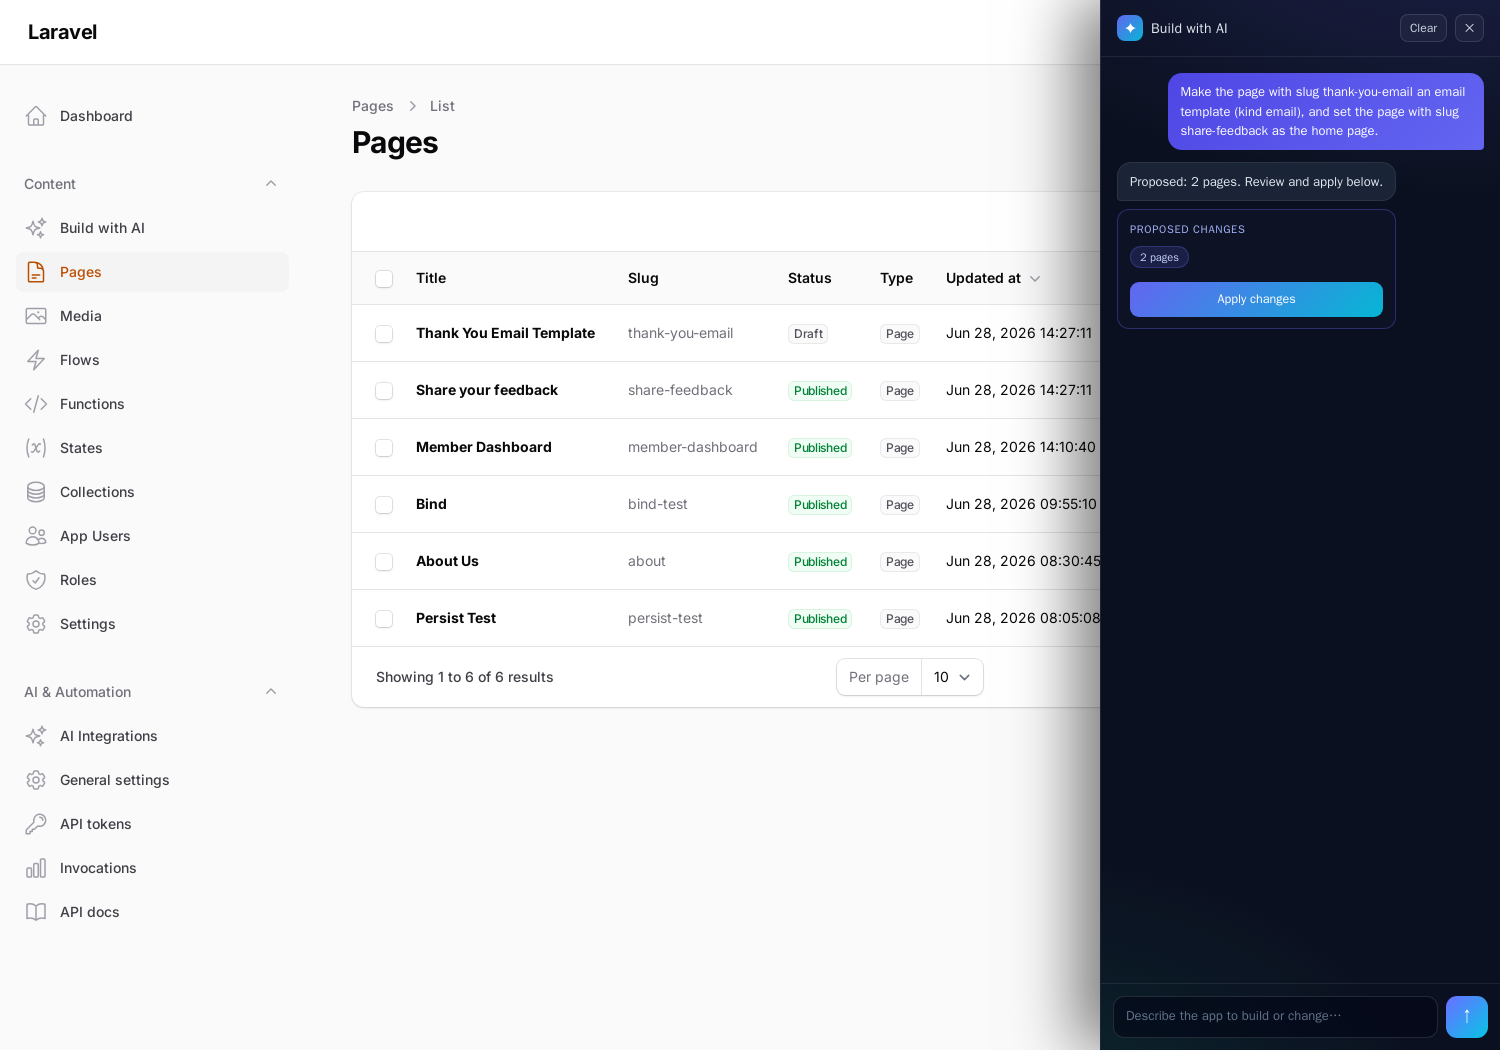
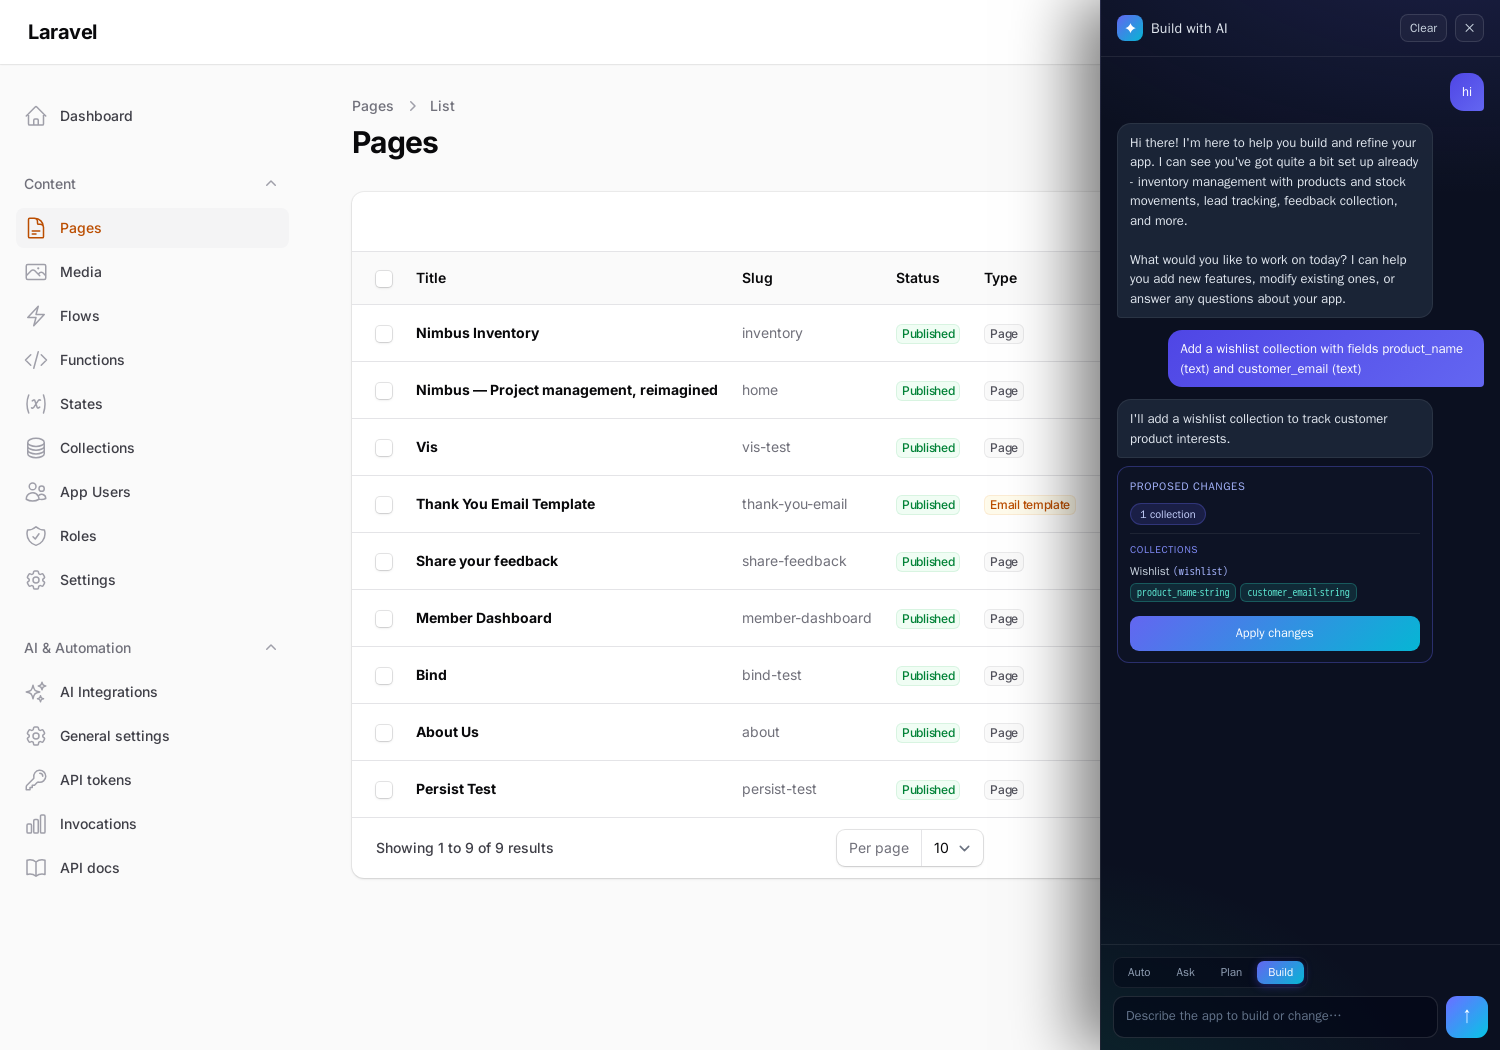
docs: refresh README + docs for the floating chat, modes, and demo apps
- README 'See it' now shows the two demo apps (marketing site + inventory
  dashboard), the conversational chat, and an automation flow; quickstart adds
  `ai-page-builder:install-demo`; the AI section describes Ask/Plan/Build/Auto
  modes + the detailed, viewable plan.
- docs/ai.md: replaced the removed 'Build with AI page' section with the floating
  chat as the single AI surface (modes, fenced-plan rendering, endpoints, SPA
  persistence) + a 'try the demo apps' section.
- Refreshed screenshots (marketing-site, inventory, ai-chat, flow).

diff --git a/docs/ai.md b/docs/ai.md
@@ -13,7 +13,7 @@ composer require andrecorugda/ai-openrouter-gateway
 # .env: OPENROUTER_INTEGRATION_KEY=sk-or-...
 ```
 
-The package talks to it through the [`AiInvoker`](extending.md#the-aiinvoker-contract) abstraction (`GatewayAiInvoker` by default), so the rest of the package stays gateway-optional and the AI services stay unit-testable. `AppBuilderService::available()` is false without it, and the *Build with AI* page / chat degrade gracefully ("you can still build manually").
+The package talks to it through the [`AiInvoker`](extending.md#the-aiinvoker-contract) abstraction (`GatewayAiInvoker` by default), so the rest of the package stays gateway-optional and the AI services stay unit-testable. `AppBuilderService::available()` is false without it, and the chat degrades gracefully ("you can still build manually").
 
 The `ai.driver` config is `auto` by default: use the gateway when installed, else the direct OpenRouter driver, else a null driver (manual editing still works). Force it with `gateway` or `openrouter`.
 
@@ -36,22 +36,31 @@ Field `options` carry `required`, `unique`, `default`, `length`, `choices` (for 
 
 `src/Ai/BuildPlanValidator.php` runs **before** the applier touches the DB, returning a flat list of human-readable errors (empty = valid). It blocks structural breakage — invalid slugs (`^[a-z][a-z0-9_-]*$`), duplicate keys, unknown field types (checked against `FieldType::cases()`), unknown flow trigger types and **unregistered node types** (resolved from the live `NodeRegistry`), a `home_page` that points at an email template — while treating advisory issues (an unknown `data-pb-block` key, a `home_page` slug not created in the same plan) as warnings.
 
-## Build with AI
+## The floating chat (the single AI surface)
 
-The **Build with AI** admin page (`src/Filament/Pages/BuildWithAi.php`) is the describe → review → apply surface:
+The AI lives in a dockable companion injected on every admin page (the ✦ orb; `resources/views/filament/ai-chat.blade.php` via a Filament render hook), backed by `AiChatController`. It is a real conversation, not a one-shot form.
 
-1. **Describe** — a `brief` (what you want) and optional `business` (brand/guidelines).
-2. **Generate plan** — calls `AppBuilderService::generate($brief, $business)`, which sends the seeded `app_builder` system prompt + the live app context + your brief through the gateway, then extracts and validates the plan. The reviewable plan, its validation errors and the raw model reply are shown.
-3. **Apply plan** — visible once a plan exists, **disabled while there are validation errors**, and requires confirmation. Calls `BuildPlanApplier::apply($plan)` and reports what was created (collections, states, functions, flows, pages, settings).
+**Modes** (a selector in the composer; the choice is sent as `mode` and persisted):
 
-## The floating chat
+| Mode | Behaviour |
+|---|---|
+| **Auto** (default) | The model infers intent — answers questions, proposes a plan only for a concrete build/change request. |
+| **Ask** | Answer/advise only; never proposes a plan. |
+| **Plan** | Designs it *with* you — proposes a plan plus an itemized summary, asks before assumptions. |
+| **Build** | Produces a ready-to-apply plan for the request. |
 
-A dockable AI companion is injected on every admin page (the ✦ orb; `src/Filament/views/.../ai-chat.blade.php` via a Filament render hook), backed by `AiChatController`:
+The system prompt is conversational: greetings and questions get plain replies; a plan is emitted only inside a fenced ```` ```json ```` block (so prose is never misread as a plan) and rendered as a **detailed, reviewable card** — each collection with its field chips, plus states, functions, flows, pages and settings.
 
-- `POST /ai-page-builder/ai-chat` (**send**) — threads the **whole conversation** through `AppBuilderService::generate()`, so the model retains context and can iteratively **refine** what you've built. Returns a friendly one-line summary ("Proposed: 2 collections, 1 page…"), the raw reply (for thread continuity), the plan, and any validation errors.
+Endpoints:
+
+- `POST /ai-page-builder/ai-chat` (**send**) — threads the **whole conversation** through `AppBuilderService::generate()` (with the mode directive), so the model retains context and can iteratively **refine** what you've built. Returns the conversational reply, the raw text (for thread continuity), the plan, and any validation errors.
 - `POST /ai-page-builder/ai-chat/apply` (**apply**) — commits the proposed plan via `BuildPlanApplier` (human-in-the-loop: generation and application are separate steps).
 
-Because the chat is thread-aware and context-aware, you can build on one page and refine on another — "refine from anywhere."
+The conversation is kept in the browser (`localStorage`) and the panel is appended to `document.body`, so it survives Livewire's `wire:navigate` — build on one page, refine on another.
+
+## Try it: the demo apps
+
+`php artisan ai-page-builder:install-demo` builds two reference apps from the package's own primitives — a designed marketing website (`/p/home`) and a role-gated **Inventory** CRUD app (`/p/inventory`, sign in `manager@nimbus.test` / `password`) with collections, a reactive dashboard, States, a Function, end-user roles, and a fan-out Flow. A fast way to see everything working together.
 
 ## Idempotent apply
 

diff --git a/README.md b/README.md
@@ -46,13 +46,15 @@ Nothing leaves your server. There's no SaaS, no per-seat pricing, no lock-in. It
 
 ## See it
 
-| Describe → review → apply | Refine by chatting, anywhere |
-|---|---|
-| ![Build with AI](art/screenshots/build-with-ai.png) | ![AI chat](art/screenshots/ai-chat.png) |
+Everything below was **built with the package itself** — run `php artisan ai-page-builder:install-demo` to get these two apps.
 
-| Your app's login | App users & roles |
+| A designed marketing site | A role-gated Inventory app |
 |---|---|
-| ![Login](art/screenshots/login.png) | ![App users](art/screenshots/app-users.png) |
+| ![Marketing site](art/screenshots/marketing-site.png) | ![Inventory dashboard](art/screenshots/inventory.png) |
+
+| Chat to build & refine (Ask / Plan / Build) | An automation flow (fan-out + branches) |
+|---|---|
+| ![AI chat](art/screenshots/ai-chat.png) | ![Flow editor](art/screenshots/flow.png) |
 
 ---
 
@@ -131,7 +133,13 @@ composer require andrecorugda/ai-openrouter-gateway
 # set OPENROUTER_INTEGRATION_KEY (or OPENROUTER_API_KEY) in .env
 ```
 
-Then open **Build with AI**, or tap the ✦ chat orb on any admin page.
+Then tap the ✦ chat orb on any admin page and just talk to it.
+
+**Want a guided tour?** Install two ready-made apps (a marketing site + a role-gated Inventory CRUD app) built entirely from the package:
+
+```bash
+php artisan ai-page-builder:install-demo
+```
 
 📖 **Full documentation:** [`docs/`](docs/README.md) — installation, architecture, every subsystem, and the complete config reference.
 
@@ -141,9 +149,10 @@ Then open **Build with AI**, or tap the ✦ chat orb on any admin page.
 
 AI is **optional and additive** — the builder is fully usable by hand. When the [AI OpenRouter Gateway](https://github.com/andrecorugda/ai-openrouter-gateway) is installed:
 
-- **You describe; it plans.** The model returns a structured **Build Plan** (collections, states, functions, flows, pages, settings) — never opaque files. You review it before anything is created.
+- **A real conversation, with modes.** The floating chat talks like a teammate — **Auto** infers what you want, **Ask** answers only, **Plan** designs it with you, **Build** ships it. Greetings and questions get replies, not plans.
+- **You describe; it plans — visibly.** When you ask for a change, it returns a structured **Build Plan** shown in full (each collection + its fields, pages, flows, settings) for review — never opaque files.
 - **Applied as data.** A deterministic, idempotent engine writes the plan through the same services the admin uses, so AI-built artifacts behave exactly like hand-built ones — and "refine" just means re-applying a plan that references existing items.
-- **A companion, not a wizard.** The floating chat is thread-aware and context-aware; build on one page, refine on another.
+- **A companion, not a wizard.** The chat is thread-aware and context-aware (it knows your collections, pages and flows); build on one page, refine on another.
 - **Safe by construction.** AI-authored HTML is sanitized (declarative bindings kept, executable directives stripped); applying is always human-in-the-loop; generation is metered and cost-capped by the gateway.
 
 ---
